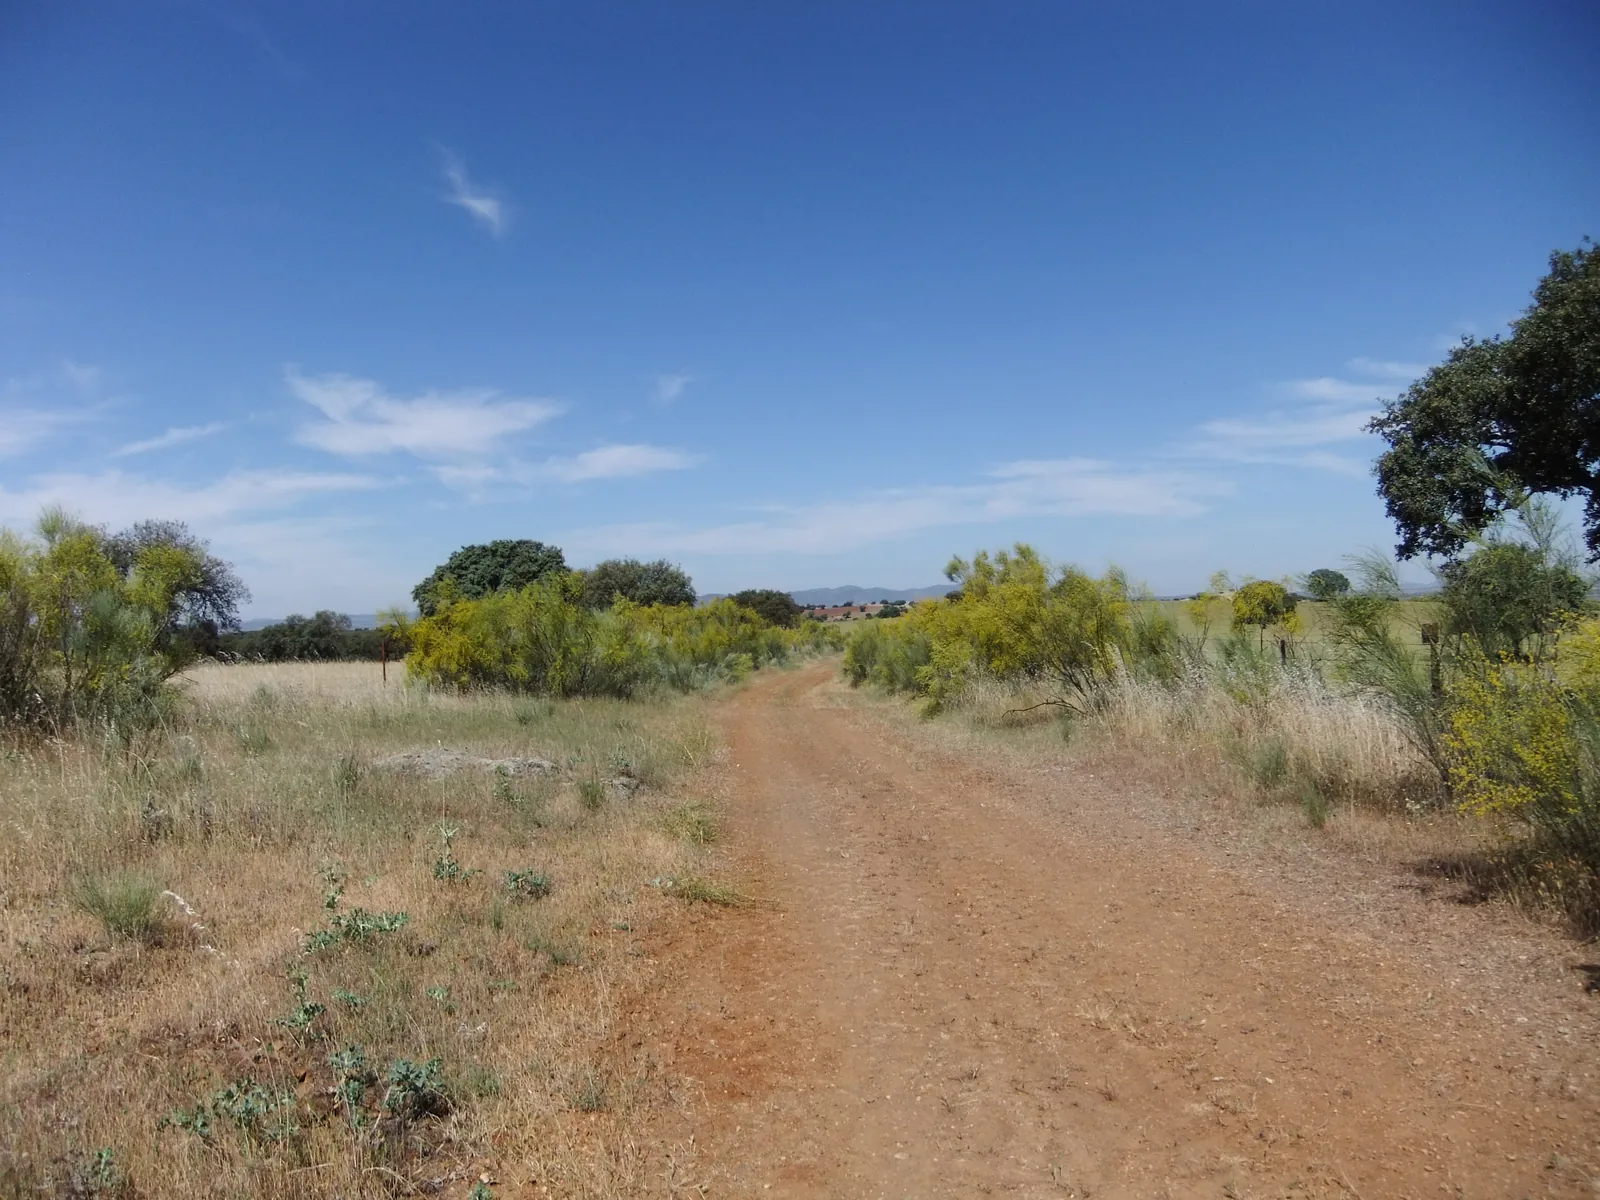
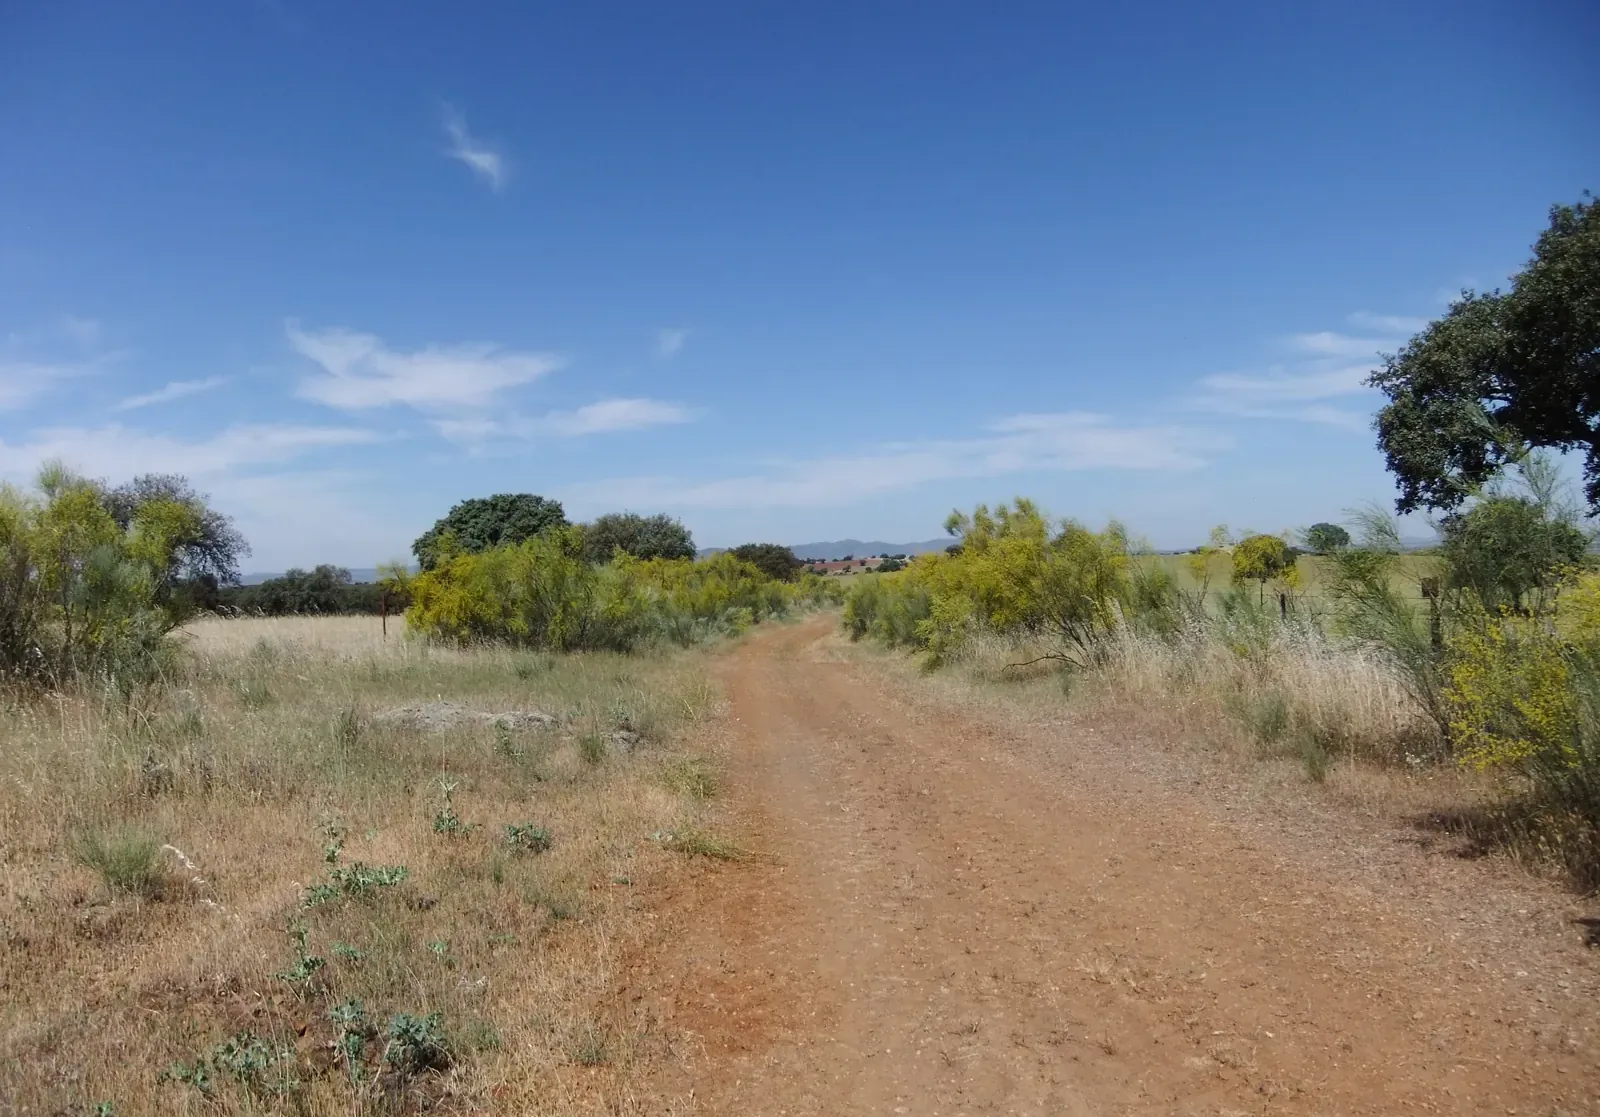
Kleine Änderungen vorgenommen

diff --git a/02_Camino-Mozarabe_2014/Etappe-13_Cordoba_Los-Patios-de-Cordoba.md b/02_Camino-Mozarabe_2014/Etappe-13_Cordoba_Los-Patios-de-Cordoba.md
@@ -3,7 +3,7 @@
 ### Etappe-13: Córdoba → Los Patios de  Córdoba ( ca. 2,x Km)
 09 de Maio 2014
 
-![](media04/20140509-155101.webp)
+
 
 ![](media04/20140509-103901.webp)
 
@@ -46,15 +46,15 @@ The morning and evening walk took us right past the historic **Torre de la Calah
 
 ![](media04/20140509-111125.webp)
 
-
 ![](media04/20140509-111250.webp)
 
 ![](media04/20140509-154634.webp)
 
-
 ![](media04/20140509-154604.webp)
 
-![](20140509-215051-%20.webp)
+![](media04/20140509-155101.webp)
+
+![](20140509-215051a.webp)
 
 Die "Fiestas de los Patios de Córdoba " existieren als offizieller Wettbewerb seit dem Jahr **1921**. 
 
@@ -63,12 +63,12 @@ In diesem Jahr organisierte der damalige Bürgermeister Francisco Fernández de 
 **Die wichtigsten Meilensteine der Geschichte:**
 
 - **Erste Öffnungen:** Bereits **1918** öffneten einige Bewohner der Stadt erstmals ihre Innenhöfe für Besucher.
-- 
+
 - **Unterbrechungen:** Nach dem Start 1921 fand das Fest zunächst unregelmäßig statt und wurde später durch den Spanischen Bürgerkrieg komplett unterbrochen. Ab **1944** wurde die Tradition fest wiederbelebt.
 
 
 - **UNESCO-Weltkulturerbe:** Am **6. Dezember 2012** wurden die Patios von Córdoba von der UNESCO zum immateriellen Weltkulturerbe der Menschhei erklärt. 
--
+
 
 - **Düfte und Farben:** Die Wände waren dicht behängt mit den typischen blauen oder roten Töpfen voller Geranien, Nelken und üppiger Bougainvillea. Ein  intensive Duft von Jasmin (_Jazmín_) und Orangenblüten (_Azahar_) in den engen Gassen der _Judería_ oder San Basilio liegt in der Luft.
  

diff --git a/02_Camino-Mozarabe_2014/Etappe-16_Alcaracejos_Hinojosa-del-Duque.md b/02_Camino-Mozarabe_2014/Etappe-16_Alcaracejos_Hinojosa-del-Duque.md
@@ -32,13 +32,13 @@
 ![](media04/20140512-185541.webp)
 
 
- - 🇬🇧 Hostel (next to) at the ‘Local Police’ (?). I still need to check if it was here, but the room didn’t have Swedish blinds. **We were given a very friendly and warm welcome.**
+ - 🇬🇧 Hostel (next to) at the ‘Local Police’ (?). I still need to check if it was here.  **We were given a very friendly and warm welcome.**
  
--  🇩🇪 Herberge (neben der) in der „Policia Lokal“ (?). Ich muss noch nachsehen, ob es hier war, aber die Unterkunft hatte keine schwedischen Gardinen. **Wir wurden sehr freundlich und herzlich empfangen.**
+-  🇩🇪 Herberge (neben der) in der „Policia Lokal“ (?). Ich muss noch nachsehen, ob es hier war. **Wir wurden sehr freundlich und herzlich empfangen.**
 
-- 🇵🇹 Albergue (ao lado da) na “Policia Lokal” (?). Ainda tenho de verificar se era aqui, mas o alojamento não tinha cortinas suecas.  **Fomos recebidos de forma muito simpática e cordial.**
+- 🇵🇹 Albergue (ao lado da) na “Policia Lokal” (?). Ainda tenho de verificar se era aqui.  **Fomos recebidos de forma muito simpática e cordial.**
 
-- 🇪🇸 Albergue (junto a) en la «Policía Local» (?). Todavía tengo que comprobar si era aquí, pero el alojamiento no tenía cortinas suecas. **Nos recibieron de forma muy amable y cordial.**
+- 🇪🇸 Albergue (junto a) en la «Policía Local» (?). Todavía tengo que comprobar si era aquí.  **Nos recibieron de forma muy amable y cordial.**
 ---
 
 <details>
